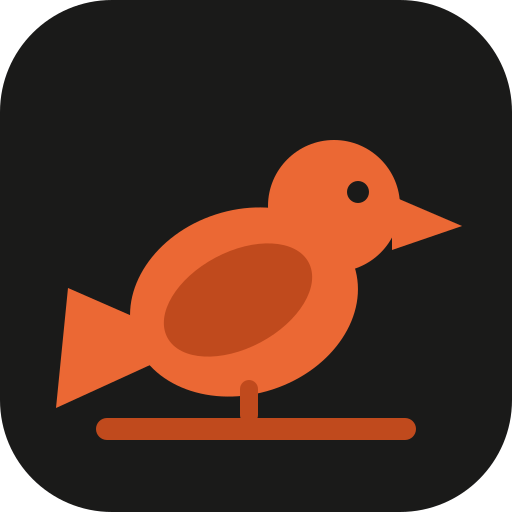
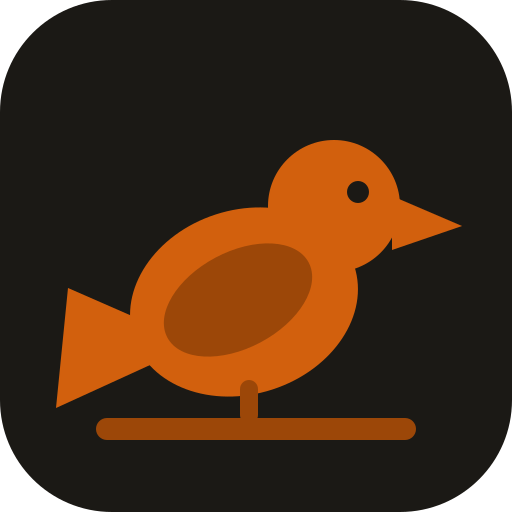
Retheme to Wingspan's own parchment and habitat colours
The old surfaces were neutral greys with a generic accent set. The
game's board is parchment and its cards are sorted by habitat, so the
palette now comes from there: parchment (#f2eada) and warm charcoal
(#12100c) for the surfaces, with the eight series drawn from the
habitats and food tokens — wetland blue, terracotta, forest green,
grassland gold, nectar rose, shallow blue, plum, brick.

The series were generated, not picked. Each hue is placed at the
maximum in-gamut chroma for its lightness, then nudged along lightness
until it clears both a 0.1 chroma floor and 3:1 against the darkest
surface it can land on, so no step needs contrast relief. Validated
per mode: worst adjacent CVD pair ΔE 15.9 light / 16.5 dark against a
target of 8, tritan 10.9 / 10.6, normal vision 25.0 / 25.5.

One substitution worth recording: a true teal is not available here.
Hues 175–220 cannot clear the chroma floor and 3:1 against parchment
at once, so that slot is a shallow blue at hue 226.

Icons, favicon and the theme-color metas follow the same tokens, so
the splash and the address bar match the app rather than the old grey.

Changed region(s): [[0.0938, 0.25, 0.9062, 0.875]]

diff --git a/src/index.css b/src/index.css
@@ -5,9 +5,12 @@
 @custom-variant dark (&:where([data-theme='dark'], [data-theme='dark'] *));
 
 /* ---------------------------------------------------------------------------
-   Palette. Light and dark are separately chosen steps of the same hues, both
-   validated against their own surface (see README). Series slots are used for
-   player identity in charts and must be assigned in fixed order, never cycled.
+   Palette — Wingspan's own colours. The neutrals are the board's parchment in
+   light and a warm charcoal in dark; the series hues are its habitats and food
+   tokens (forest, plum berry, terracotta, shallow water, brick, wetland, seed
+   gold, nectar). Light and dark are separately chosen steps of the same hues,
+   each validated against its own darkest surface (see README). Series slots
+   carry player identity and must be assigned in fixed order, never cycled.
    --------------------------------------------------------------------------- */
 
 :root {
@@ -17,48 +20,48 @@
 
 :root[data-theme='light'] {
   color-scheme: light;
-  --plane: #f9f9f7;
-  --surface: #fcfcfb;
-  --surface-2: #f0efec;
-  --ink: #0b0b0b;
-  --ink-2: #52514e;
-  --muted: #898781;
-  --grid: #e1e0d9;
-  --axis: #c3c2b7;
-  --hairline: rgb(11 11 11 / 0.1);
-  --good: #006300;
-  --critical: #d03b3b;
-  --series-1: #2a78d6;
-  --series-2: #eb6834;
-  --series-3: #1baf7a;
-  --series-4: #eda100;
-  --series-5: #e87ba4;
-  --series-6: #008300;
-  --series-7: #4a3aa7;
-  --series-8: #e34948;
+  --plane: #f2eada;
+  --surface: #faf4e8;
+  --surface-2: #ebe1cd;
+  --ink: #1f1a11;
+  --ink-2: #554c3d;
+  --muted: #6b6150;
+  --grid: #e0d4ba;
+  --axis: #c3b596;
+  --hairline: rgb(31 26 17 / 0.12);
+  --good: #2c6b21;
+  --critical: #b23124;
+  --series-1: #0f9445;
+  --series-2: #9657d1;
+  --series-3: #c2580a;
+  --series-4: #0e88ad;
+  --series-5: #d33e4c;
+  --series-6: #0c7ddd;
+  --series-7: #95790b;
+  --series-8: #c0449a;
 }
 
 :root[data-theme='dark'] {
   color-scheme: dark;
-  --plane: #0d0d0d;
-  --surface: #1a1a19;
-  --surface-2: #232322;
-  --ink: #ffffff;
-  --ink-2: #c3c2b7;
-  --muted: #898781;
-  --grid: #2c2c2a;
-  --axis: #383835;
-  --hairline: rgb(255 255 255 / 0.1);
-  --good: #0ca30c;
-  --critical: #e66767;
-  --series-1: #3987e5;
-  --series-2: #d95926;
-  --series-3: #199e70;
-  --series-4: #c98500;
-  --series-5: #d55181;
-  --series-6: #008300;
-  --series-7: #9085e9;
-  --series-8: #e66767;
+  --plane: #12100c;
+  --surface: #1b1915;
+  --surface-2: #262219;
+  --ink: #f8f3e9;
+  --ink-2: #c9bda8;
+  --muted: #948976;
+  --grid: #2d2921;
+  --axis: #3c372d;
+  --hairline: rgb(248 243 233 / 0.1);
+  --good: #4fa53c;
+  --critical: #e2695c;
+  --series-1: #11a14b;
+  --series-2: #a162dd;
+  --series-3: #d2600d;
+  --series-4: #1193bb;
+  --series-5: #df4a56;
+  --series-6: #0f87ee;
+  --series-7: #a1830d;
+  --series-8: #cc4fa5;
 }
 
 @theme inline {

diff --git a/index.html b/index.html
@@ -9,8 +9,8 @@
     <link rel="apple-touch-icon" href="./apple-touch-icon.png" />
     <meta name="apple-mobile-web-app-capable" content="yes" />
     <meta name="apple-mobile-web-app-title" content="Wingspan" />
-    <meta name="theme-color" content="#fcfcfb" media="(prefers-color-scheme: light)" />
-    <meta name="theme-color" content="#1a1a19" media="(prefers-color-scheme: dark)" />
+    <meta name="theme-color" content="#f2eada" media="(prefers-color-scheme: light)" />
+    <meta name="theme-color" content="#12100c" media="(prefers-color-scheme: dark)" />
     <script>
       // Stamp the resolved theme before first paint so there is no flash.
       (function () {

diff --git a/vite.config.ts b/vite.config.ts
@@ -17,8 +17,8 @@ export default defineConfig({
         name: 'Wingspan Scores',
         short_name: 'Wingspan',
         description: 'Score pad, history and stats for Wingspan and its expansions.',
-        theme_color: '#1a1a19',
-        background_color: '#1a1a19',
+        theme_color: '#1b1915',
+        background_color: '#12100c',
         display: 'standalone',
         orientation: 'portrait',
         start_url: './',

diff --git a/README.md b/README.md
@@ -36,10 +36,14 @@ Two-player history stays clean when someone joins for a night, with no groups
 to create or manage. Groups are listed most-played first, so your usual pairing
 is selected by default.
 
-**Colours** are assigned per player and stored, so the same person is the same
-colour in every chart. The categorical palette is validated for colour-vision
-deficiency and contrast in both light and dark; every bar carries a visible
-value because three of the light-mode hues sit under 3:1 on the surface.
+**Colours** are Wingspan's own — parchment and warm charcoal for the surfaces,
+and eight habitat and food-token hues for the series. They're assigned per
+player and stored, so the same person is the same colour in every chart, and
+the same slot in light and dark. The categorical palette is validated for
+colour-vision deficiency and contrast in both modes: worst adjacent pair ΔE
+15.9 (light) and 16.5 (dark) against a target of 8, and every step clears 3:1
+against the darkest surface it can land on. Every bar still carries a visible
+value, so identity is never colour alone.
 
 ## Firebase setup
 
